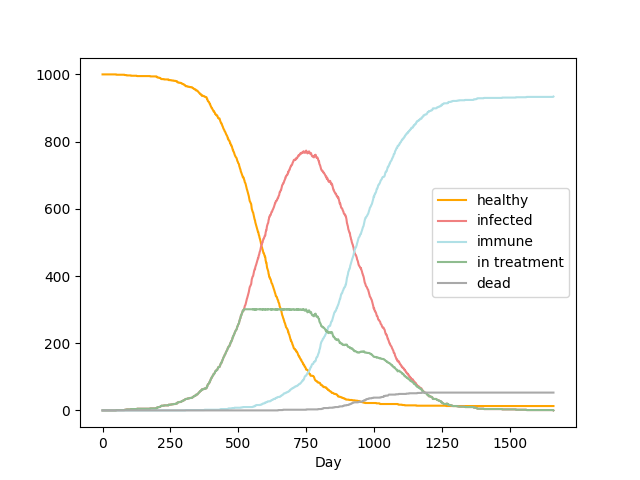
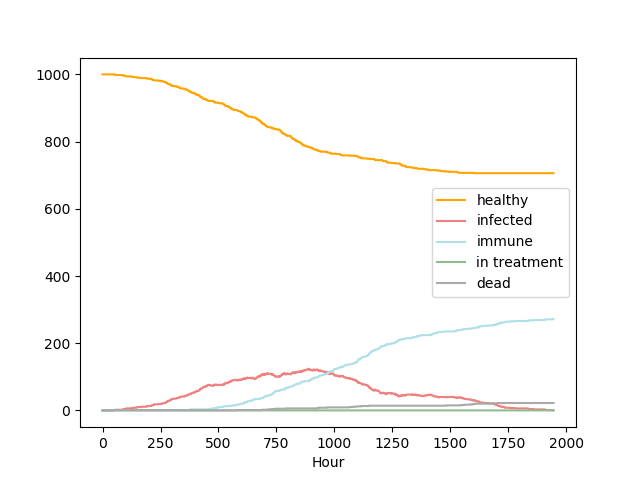
Simulation update

diff --git a/simulation/infection.py b/simulation/infection.py
@@ -40,27 +40,29 @@ def find_nearby(population, infection_zone, traveling_infects=False,
         return indices
 
     elif kind.lower() == 'infected':
-        if traveling_infects:
-            infected_number = len(infected_previous_step[:,6][(infection_zone[0] < infected_previous_step[:,1]) & 
-                                                            (infected_previous_step[:,1] < infection_zone[2]) &
-                                                            (infection_zone[1] < infected_previous_step [:,2]) & 
-                                                            (infected_previous_step[:,2] < infection_zone[3]) &
-                                                            (infected_previous_step[:,6] == 1)])
+        if infected_previous_step:
+            if traveling_infects:
+                new_var = (infection_zone[0] < infected_previous_step[:, 1]) & \
+                          (infected_previous_step[:, 1] < infection_zone[2]) & \
+                          (infection_zone[1] < infected_previous_step[:, 2]) & \
+                          (infected_previous_step[:, 2] < infection_zone[3]) & \
+                          (infected_previous_step[:, 6] == 1)
+                infected_number = len(infected_previous_step[:, 6][new_var])
+            else:
+                new_var = (infection_zone[0] < infected_previous_step[:, 1]) & (
+                            infected_previous_step[:, 1] < infection_zone[2]) & \
+                          (infection_zone[1] < infected_previous_step[:, 2]) & \
+                          (infected_previous_step[:, 2] < infection_zone[3]) & \
+                          (infected_previous_step[:, 6] == 1) & \
+                          (infected_previous_step[:, 11] == 0)
+                infected_number = len(infected_previous_step[:, 6][new_var])
+            return infected_number
         else:
-            infected_number = len(infected_previous_step[:,6][(infection_zone[0] < infected_previous_step[:,1]) & 
-                                                            (infected_previous_step[:,1] < infection_zone[2]) &
-                                                            (infection_zone[1] < infected_previous_step [:,2]) & 
-                                                            (infected_previous_step[:,2] < infection_zone[3]) &
-                                                            (infected_previous_step[:,6] == 1) &
-                                                            (infected_previous_step[:,11] == 0)])
-        return infected_number
-        
+            return 0
+
     else:
         raise ValueError('type to find %s not understood! Must be either \'healthy\' or \'ill\'')
         
-        
-
-
 
 def infect(population, Config, frame, send_to_location=False, 
            location_bounds=[], destinations=[], location_no=1, 
@@ -125,6 +127,23 @@ def infect(population, Config, frame, send_to_location=False,
     #if less than half are infected, slice based on infected (to speed up computation)
     if len(infected_previous_step) < (Config.pop_size // 2):
         for patient in infected_previous_step:
+            # wait for sympomatic period to put patients in isolation
+            if frame - patient[8] >= Config.symptomatic_stage_duration:
+                if len(population[population[:, 10] == 1]) <= Config.healthcare_capacity:
+                    patient[10] = 1
+                    if send_to_location | Config.contact_tracing:
+                        # send to location if die roll is positive
+                        if np.random.uniform() <= location_odds:
+                            population[np.int32(patient[0])], \
+                            destinations[np.int32(patient[0])] = go_to_location(population[np.int32(patient[0])],
+                                                                                destinations[
+                                                                                    np.int32(patient[0])],
+                                                                                location_bounds,
+                                                                                dest_no=location_no)
+
+                else:
+                    pass
+
             #define infection zone for patient
             infection_zone = [patient[1] - Config.infection_range, patient[2] - Config.infection_range,
                                 patient[1] + Config.infection_range, patient[2] + Config.infection_range]
@@ -140,25 +159,13 @@ def infect(population, Config, frame, send_to_location=False,
                 if np.random.random() < Config.infection_chance:
                     population[idx][6] = 1
                     population[idx][8] = frame
-                    if len(population[population[:,10] == 1]) <= Config.healthcare_capacity:
-                        population[idx][10] = 1
-                        if send_to_location:
-                            #send to location if die roll is positive
-                            if np.random.uniform() <= location_odds:
-                                population[idx],\
-                                destinations[idx] = go_to_location(population[idx],
-                                                                   destinations[idx],
-                                                                   location_bounds, 
-                                                                   dest_no=location_no)
-                        else:
-                            pass
+
                     new_infections.append(idx)
 
     else:
         #if more than half are infected slice based in healthy people (to speed up computation)
-            
-        
-        
+
+
         for person in healthy_previous_step:
             #define infecftion range around healthy person
             infection_zone = [person[1] - Config.infection_range, person[2] - Config.infection_range,
@@ -177,21 +184,30 @@ def infect(population, Config, frame, send_to_location=False,
                                          infected_previous_step = infected_previous_step)
                 
                 if poplen > 0:
+                    if Config.contact_tracing:
+                        # not all people will follow the App indication
+                        if np.random.random() < Config.EFFICIENCY * Config.amtHasApp:
+                            # set complying people to quarantine
+                            population[np.int32(person[0])][15] = 1
+                            population[np.int32(person[0])][5] = 0
+                            population[np.int32(person[0])][16] = frame
+                        else:
+                            pass
+
                     if np.random.random() < (Config.infection_chance * poplen):
                         #roll die to see if healthy person will be infected
                         population[np.int32(person[0])][6] = 1
                         population[np.int32(person[0])][8] = frame
                         if len(population[population[:,10] == 1]) <= Config.healthcare_capacity:
                             population[np.int32(person[0])][10] = 1
-                            if send_to_location:
+                            if send_to_location | Config.contact_tracing:
                                 #send to location and add to treatment if die roll is positive
                                 if np.random.uniform() < location_odds:
                                     population[np.int32(person[0])],\
                                     destinations[np.int32(person[0])] = go_to_location(population[np.int32(person[0])],
                                                                                         destinations[np.int32(person[0])],
-                                                                                        location_bounds, 
+                                                                                        location_bounds,
                                                                                         dest_no=location_no)
-
 
                         new_infections.append(np.int32(person[0]))
 
@@ -251,6 +267,22 @@ def recover_or_die(population, frame, Config):
         whether to report to terminal the recoveries and deaths for each simulation step
     '''
 
+    # if quarantine >= 14 days, mark as healthy & can move (contact tracing)
+    if Config.contact_tracing:
+        quarantined_people = population[population[:, 15] == 1]
+        for people in quarantined_people:
+            quarantine_duration = frame - people[16]
+            if quarantine_duration >= Config.incubation_stage_duration:
+                if people[6] == 1:
+                    if np.random.random() >= (1 - Config.mortality_chance):
+                        people[6] = 2
+                        people[5] = np.random.normal(loc=0.01, scale=0.01 / 3)
+                    else:
+                        pass
+                if people[6] == 0:
+                    people[6] = 2
+                    people[5] = np.random.normal(loc=0.01, scale=0.01 / 3)
+
     #find infected people
     infected_people = population[population[:,6] == 1]
 
@@ -296,6 +328,10 @@ def recover_or_die(population, frame, Config):
             infected_people[:,6][infected_people[:,0] == idx] = 2
             infected_people[:,10][infected_people[:,0] == idx] = 0
             recovered.append(np.int32(infected_people[infected_people[:,0] == idx][:,0][0]))
+            if Config.contact_tracing:
+                # recoverd-quarantined can now move
+                if infected_people[:, 15][infected_people[:, 0] == idx] == 1:
+                    infected_people[:, 5][infected_people[:, 0] == idx] = np.random.normal(loc=0.01, scale=0.01 / 3)
 
     if len(fatalities) > 0 and Config.verbose:
         print('\nat timestep %i these people died: %s' %(frame, fatalities))

diff --git a/simulation/config.py b/simulation/config.py
@@ -21,11 +21,12 @@ class Configuration():
         self.endif_no_infections = True #whether to stop simulation if no infections remain
 
         #scenario flags
-        self.traveling_infects = False
+        self.traveling_infects = True
         self.self_isolate = False
         self.lockdown = False
         self.lockdown_percentage = 0.1 #after this proportion is infected, lock-down begins
-        self.lockdown_compliance = 0.95 #fraction of the population that will obey the lockdown        
+        self.lockdown_compliance = 0.95 #fraction of the population that will obey the lockdown
+        self.contact_tracing = False
 
         #world variables, defines where population can and cannot roam
         self.xbounds = [0.02, 0.98]
@@ -54,7 +55,13 @@ class Configuration():
         self.critical_age = 75 #age at and beyond which mortality risk reaches maximum
         self.critical_mortality_chance = 0.1 #maximum mortality risk for older age
         self.risk_increase = 'quadratic' #whether risk between risk and critical age increases 'linear' or 'quadratic'
-        
+
+        # contact tracing
+        self.amtHasApp = 1  # percent people having the App
+        self.EFFICIENCY = 1  # a portion of those who receive the alarm comply to go quarantine
+        self.symptomatic_stage_duration = 48  # delay from symptoms to alarm
+        self.incubation_stage_duration = 336  # quarantine period
+
         #movement variables
         #mean_speed = 0.01 # the mean speed (defined as heading * speed)
         #std_speed = 0.01 / 3 #the standard deviation of the speed parameter
@@ -171,5 +178,25 @@ class Configuration():
         '''sets reduced interaction scenario to active'''
 
         self.speed = speed
+
+    def set_contact_tracing(self, amt_has_app, EFFICIENCY,
+                            symptomatic_stage_duration, incubation_stage_duration,
+                            isolation_bounds=[0.02, 0.02, 0.09, 0.98]):
+        '''sets contact tracing to active'''
+
+        self.contact_tracing = True
+        self.symptomatic_stage_duration = symptomatic_stage_duration
+        self.incubation_stage_duration = incubation_stage_duration
+
+        #fraction of the population that will obey the lockdown
+        self.amtHasApp = amt_has_app
+        self.EFFICIENCY = EFFICIENCY
+        # self.contact_tracing_vector = np.zeros((self.pop_size,))
+        #contact tracing vector is 1 for those not complying
+        # self.contact_tracing_vector[np.random.uniform(size=(self.pop_size,)) >= (1-EFFICIENCY)] = 1
+        self.isolation_bounds = isolation_bounds
+        # set roaming bounds to outside isolated area
+        self.xbounds = [0.1, 1.1]
+        self.ybounds = [0.02, 0.98]
 
 

diff --git a/simulation/simulation.py b/simulation/simulation.py
@@ -170,11 +170,11 @@ class Simulation():
 
         # find new infections
         self.population, self.destinations = infect(self.population, self.Config, self.frame,
-                                                    send_to_location=self.Config.self_isolate,
-                                                    location_bounds=self.Config.isolation_bounds,
-                                                    destinations=self.destinations,
-                                                    location_no=1,
-                                                    location_odds=self.Config.self_isolate_proportion)
+                                                    send_to_location = self.Config.self_isolate | self.Config.contact_tracing,
+                                                    location_bounds = self.Config.isolation_bounds,
+                                                    destinations = self.destinations,
+                                                    location_no = 1,
+                                                    location_odds = max(self.Config.self_isolate_proportion, self.Config.amtHasApp))
 
         # recover and die
         self.population = recover_or_die(self.population, self.frame, self.Config)
@@ -282,6 +282,9 @@ def run_locally():
     # Run
     sim1.run()
     sim2.run()
+
+    # set contact tracing scenario
+    # sim1.Config.set_contact_tracing(amt_has_app=1, EFFICIENCY=1, symptomatic_stage_duration=48, incubation_stage_duration=336)
 
     # Send emails
     send_results(sim1, sim2)

diff --git a/simulation/population.py b/simulation/population.py
@@ -32,6 +32,8 @@ def initialize_population(Config, mean_age=45, max_age=105,
     12 : at destination: whether arrived at destination (0=traveling, 1=arrived)
     13 : wander_range_x : wander ranges on x axis for those who are confined to a location
     14 : wander_range_y : wander ranges on y axis for those who are confined to a location
+    15 : quarantined after receiving app alarm (contact tracing)
+    16 : quarantine since
 
     Keyword arguments
     -----------------
@@ -52,7 +54,7 @@ def initialize_population(Config, mean_age=45, max_age=105,
     '''
 
     #initialize population matrix
-    population = np.zeros((Config.pop_size, 15))
+    population = np.zeros((Config.pop_size, 17))
 
     #initalize unique IDs
     population[:,0] = [x for x in range(Config.pop_size)]
